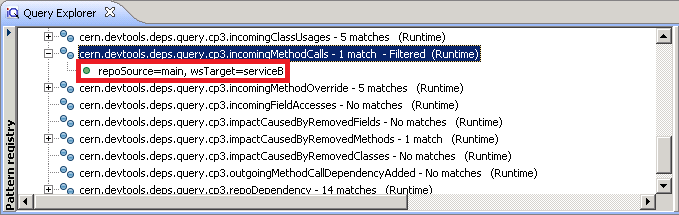
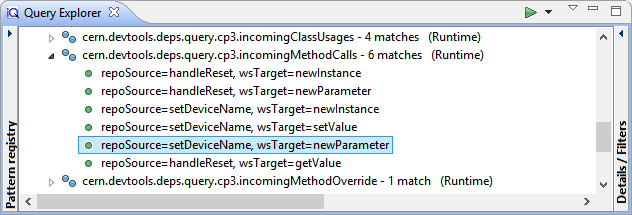
Elaboration text done.

diff --git a/incquery-deps-thesis/chapter4.tex b/incquery-deps-thesis/chapter4.tex
@@ -603,10 +603,11 @@ model of the current workspace, loads them into the EMF-IncQuery engine,
 and initiates the queries and exposes the results on an API which also updates
 the dependency information dynamically.
  
-\subsubsection{Query specifications based on graph patterns}
-The queries are developed with EMF-IncQuery's own query
-language~\cite{icmt2011}. This language is used to express certain patterns over
-EMF models. You can think about it as a regular expression over an object-model.
+\subsubsection{Query specifications based on graph
+patterns}\label{sect:patternqueries} The queries are developed with
+EMF-IncQuery's own query language~\cite{icmt2011}. This language is used to
+express certain patterns over EMF models. You can think about it as a regular
+expression over an object-model.
 To highlight this, let's see an example of a pattern expressed with this
 language which matches on all Java files and all defined types in it from the
 workspace model (see \autoref{fig:wsmodel.pdf}).
@@ -799,51 +800,43 @@ pointing to the \code{newParameter} object in the repository instance model as
 it a target of a method call. Because such a dependency has found, the query
 return the source part of the dependency object (the dependency's \code{from}
 reference) in pair with the source object from the workspace model repository.
-The result pair is indicated with red squares on the figure.
+The result elements are indicated with red squares on the figure.
 
 \paragraph{Development-time results}
 During the development the EMF-IncQuery tooling is capable of evaluating the
-queries on top of example instance models. One can use the \emph{Query
-Explorer} to visualize the results in Eclipse. 
- \autoref{fig:modelqueryresult.png} shows the results for the evaluation, when
- the compacted instance model and the workspace instance describing only the
+queries on top of example instance models. One can use the \emph{Query Explorer}
+to visualize the results in Eclipse.
+\autoref{fig:modelqueryresult.png} shows the results for the evaluation, when
+the compacted instance model and the workspace instance describing only the
 \code{japc} project are loaded.
-
-
+\picr{modelqueryresult.png}{Development-time evaluation of the pattern}
+The result view shows all the method call based incoming dependencies. The
+selected result on the picture is the one which was presented on
+\autoref{fig:patternresults.pdf}. The results are organized into pairs as every
+one of them represents a method from a workspace and their dependent counterpart
+from the repository model.
 
 \paragraph{UI integration}
-TBD: click on an element: instantly gives back all incoming d
+The results are integrated to the user interface of Eclipse. One component is a
+view, which displays the results of the queries depending of the selected
+element (shown on \autoref{fig:modelqueryui.png}). 
+\picr{modelqueryui.png}{Results of the incoming methods query on the
+UI}
+The displayed query results depend on the selected element on the user
+interface. If the selection changes or the workspace model gets modified,
+it will automatically trigger an update on the ui components. Through this
+the components provides context-dependant and instant feedback.
 
-
-\subsubsection{Model validation with on-the-fly queries}
-here comes the kraken. the validation part.
-
-
-
-
-
-
-
-
-
-
-
- 
-% The query was evaluated with the sample data in EMF-IncQuery's UI tooling. The
-% results are on \autoref{}.
-% \picr{modelqueryresult.png}{Result of the incoming method call dependency query}
-% This figure shows that the evaluation gave back the same exact results as it was
-% described on \autoref{fig:patternresults.pdf}.
-% 
-% In this example a dependency was found. In this case the developer 
-% has to decide whether he will maintain backward compatibility or he notifies the
-% maintainer of the \code{client} project that the API will break soon. If he tried
-% to modify the \code{serviceA()} method, we would have seen that there are no incoming
-% dependencies. It means that the developer can break the signature of the method as
-% he wishes. 
-
-
-
-
-
+The second element provides validation over the models. Suppose that somebody
+wants to add a new \code{prettyPrint()} method to the japc's \code{Parameter}
+interface. Is it is done in the source code level and gets saved the editor will
+instantly show a marker indicating, that the original interface has several
+implementation and this modification may result in compilation error in the
+client projects (shown on \autoref{fig:queryvalidation.png}).
+\picr{queryvalidation.png}{Model query results in error markers on the source
+code} The validation marker is a result of a \emph{Commit impact} type
+validation presented in \autoref{sect:patternqueries} and defined in
+\autoref{examplequeries} The validation message is added to every java class,
+where a method is added or missing (compared to the repository model) and
+external classes inherit from it.  
 
